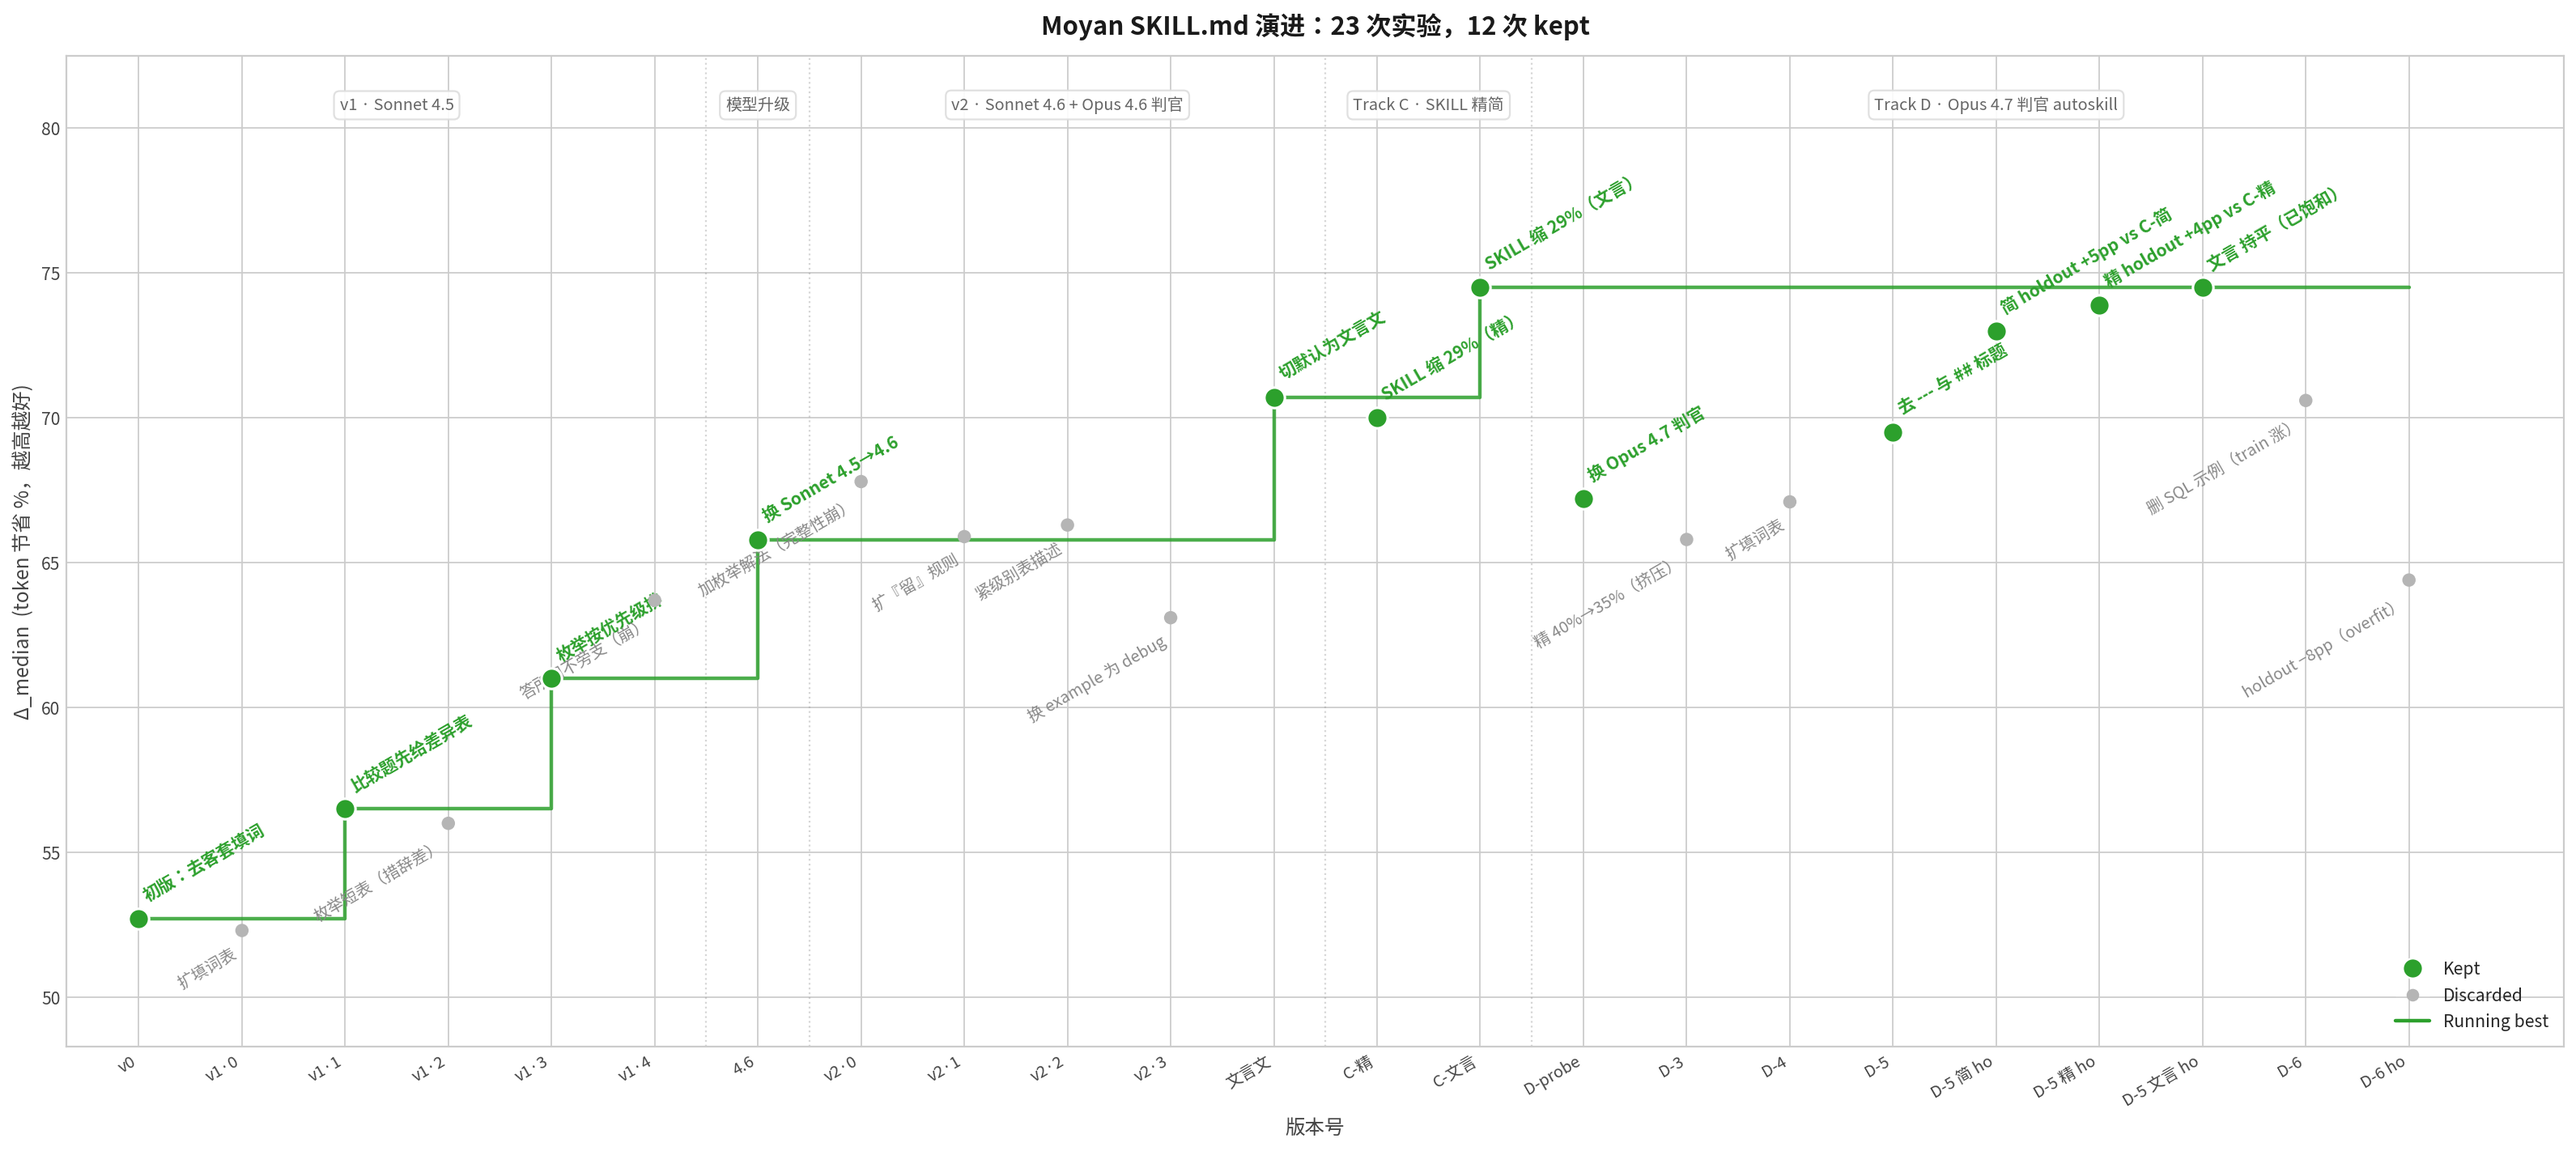
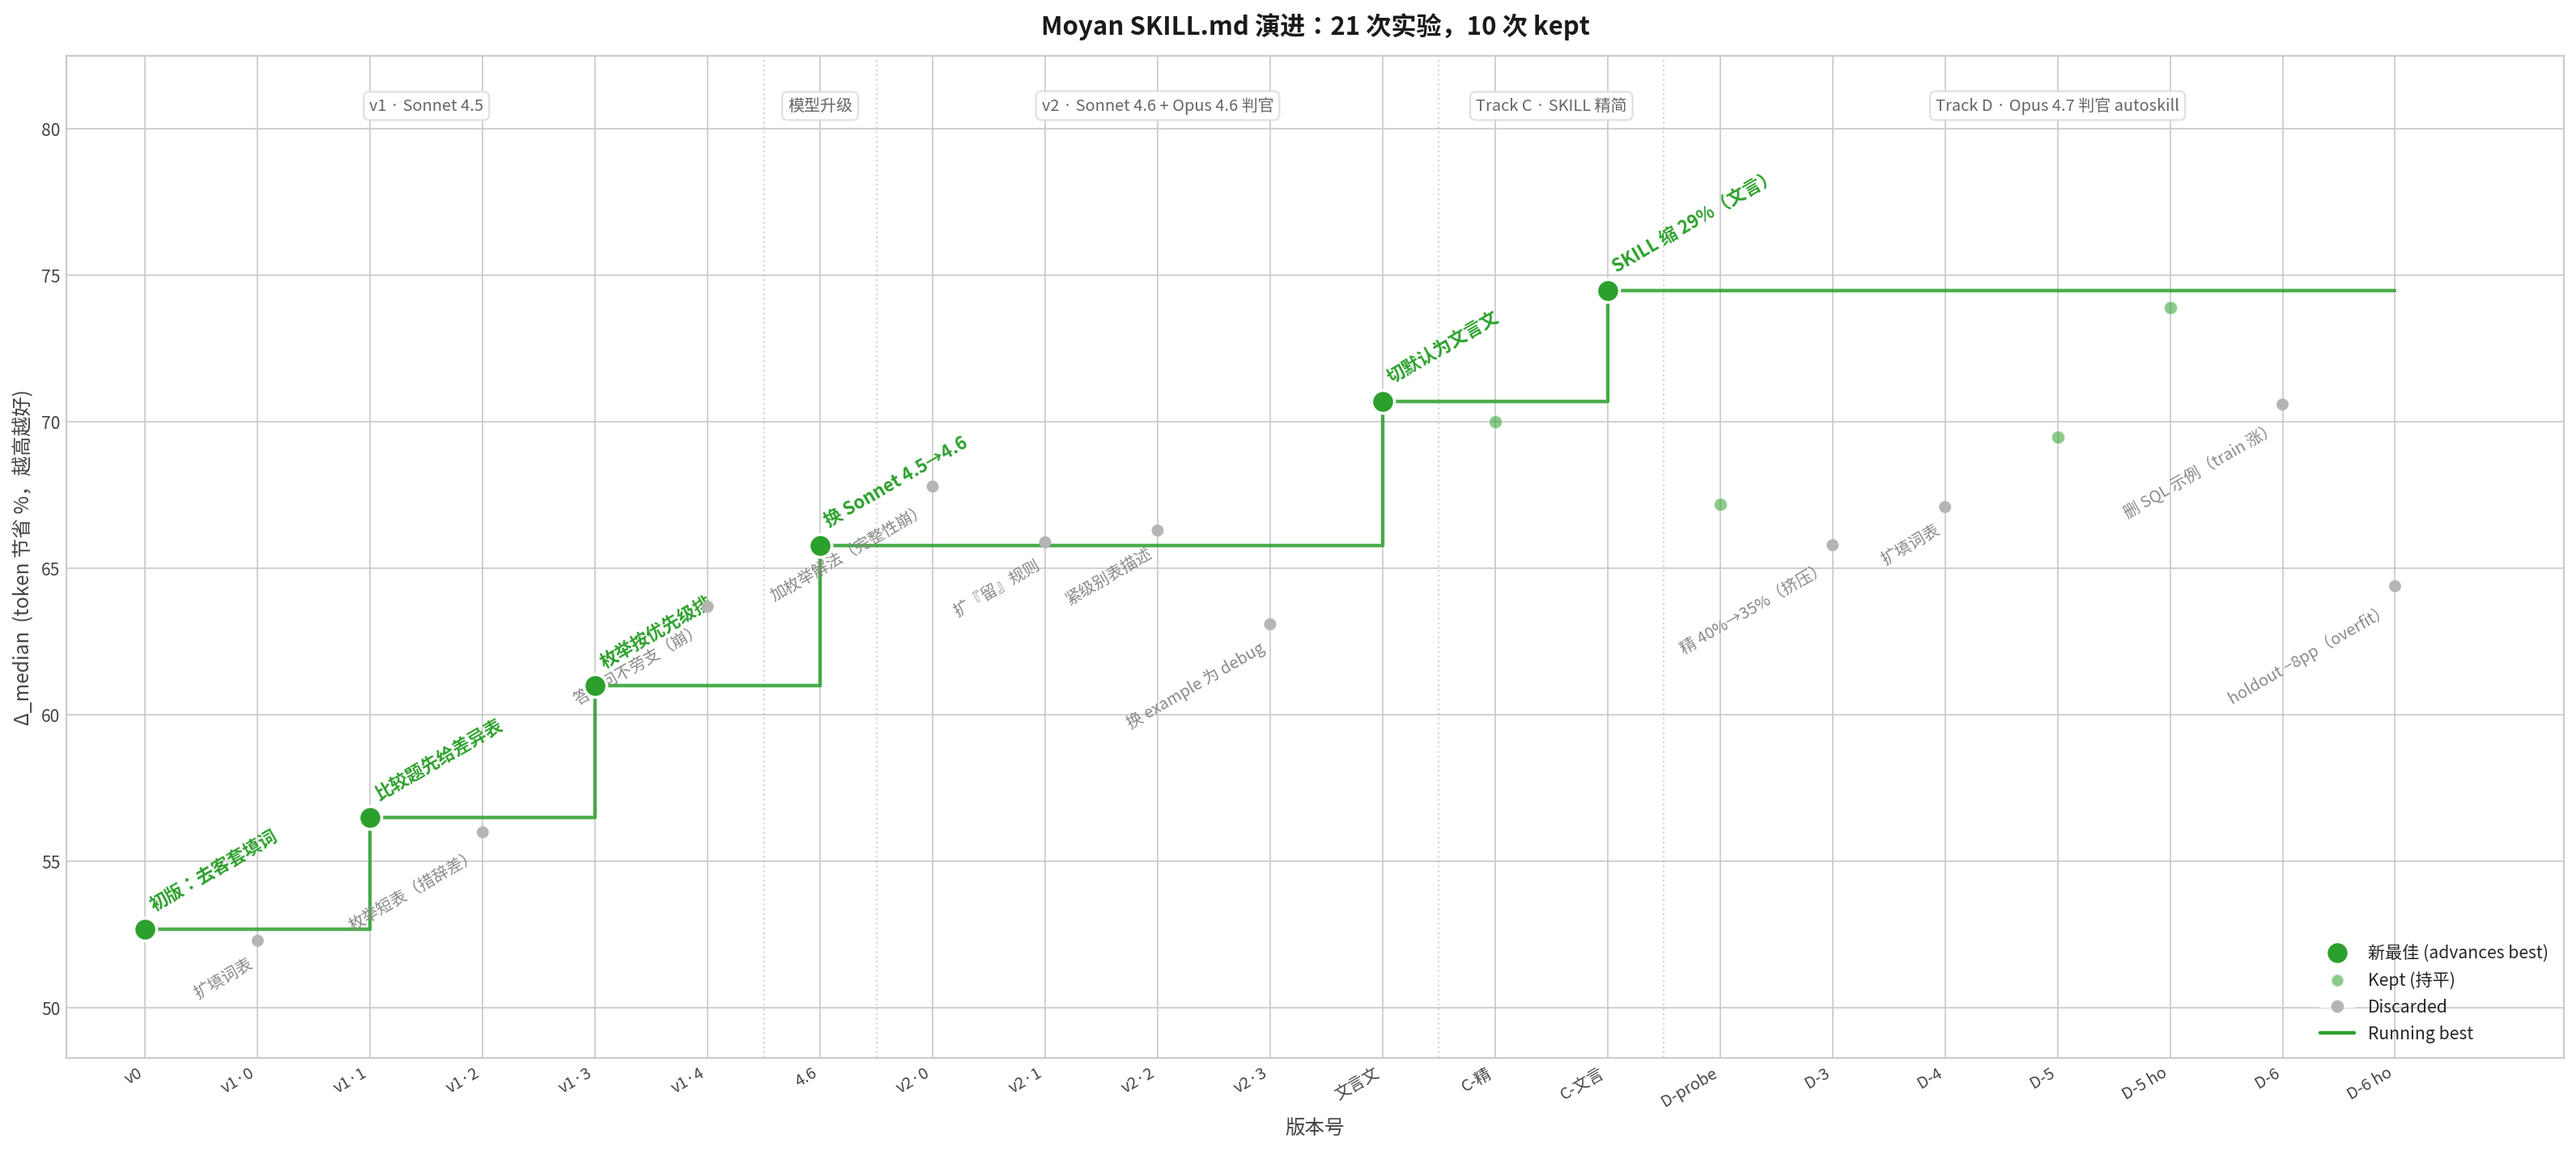
chart: visual hierarchy + collapse D-5 holdout cluster
- 三档 D-5 ho 折叠成一个点（标注 "三档 73 / 73.9 / 74.5"）。
- Kept 点分两层：advancer（推进 running-best）= 大粗体 + 标注；
  kept-but-not-best = 小淡点无标注，不抢视觉。
- 右半从一堆等大绿点收成 1 个里程碑（C-文言）+ 几个支撑小点。

diff --git a/benchmark/plot.py b/benchmark/plot.py
@@ -95,13 +95,11 @@ TIMELINE = [
     dict(tag="D-3",       d=65.8, kept=False, note="精 40%→35%（挤压）",       era="D"),
     dict(tag="D-4",       d=67.1, kept=False, note="扩填词表",                era="D"),
     dict(tag="D-5",       d=69.5, kept=True,  note="去 --- 与 ## 标题",       era="D"),
-    # Per-level holdout for D-5 (run skill23-holdout-allgroups, RESULTS_v2.md
-    # line 318): shows level convergence — 简/精 close ~4pp gap to 文言, but
-    # 文言 itself plateaus at 74.5. April-2026 Opus-4.7 calibration confirmed
+    # D-5 holdout collapsed — three levels (简 73.0 / 精 73.9 / 文言 74.5)
+    # from skill23-holdout-allgroups. Story: Track D pulled 简/精 toward
+    # 文言, 文言 itself saturated. April-2026 Opus-4.7 calibration confirmed
     # judge-shift on 文言 ≈ 0 (v2.2-文言 = 74.4 under both Opus 4.6 and 4.7).
-    dict(tag="D-5 简 ho",  d=73.0, kept=True,  note="简 holdout +5pp vs C-简",  era="D"),
-    dict(tag="D-5 精 ho",  d=73.9, kept=True,  note="精 holdout +4pp vs C-精",  era="D"),
-    dict(tag="D-5 文言 ho", d=74.5, kept=True,  note="文言 持平（已饱和）",      era="D"),
+    dict(tag="D-5 ho",    d=73.9, kept=True,  note="三档 73 / 73.9 / 74.5（简/精/文言）", era="D"),
     dict(tag="D-6",       d=70.6, kept=False, note="删 SQL 示例（train 涨）",  era="D"),
     dict(tag="D-6 ho",    d=64.4, kept=False, note="holdout −8pp（overfit）",  era="D"),
 ]
@@ -165,29 +163,42 @@ def render(out_path: Path):
             color=GREEN, linewidth=2.0, alpha=0.85,
             zorder=2, label="Running best")
 
-    # Points
+    # Tier each kept point: "advancer" if it set a new running-best, else "kept".
+    # Advancers get the big bold treatment; kept-not-advancer is a small dot
+    # without a label so it stops fighting for attention.
+    best_so_far = -1e9
     for e in events:
-        if e["kept"]:
-            ax.scatter(e["x"], e["d"], s=130, color=GREEN,
-                       edgecolor="white", linewidth=1.4, zorder=5)
+        if e["kept"] and e["d"] > best_so_far:
+            e["tier"] = "advancer"
+            best_so_far = e["d"]
+        elif e["kept"]:
+            e["tier"] = "kept"
         else:
-            ax.scatter(e["x"], e["d"], s=55, color=GRAY,
-                       edgecolor="none", zorder=4)
+            e["tier"] = "discard"
 
-    # Chinese notes — kept above (green), discarded below (gray), both angled
+    # Points + labels by tier
     for e in events:
-        if e["kept"]:
+        if e["tier"] == "advancer":
+            ax.scatter(e["x"], e["d"], s=160, color=GREEN,
+                       edgecolor="white", linewidth=1.6, zorder=6)
             ax.annotate(e["note"],
                         xy=(e["x"], e["d"]),
                         xytext=(6, 8),
                         textcoords="offset points",
-                        fontsize=9.5,
+                        fontsize=10,
                         color=GREEN,
                         ha="left", va="bottom",
                         rotation=30,
                         rotation_mode="anchor",
                         weight="semibold")
-        else:
+        elif e["tier"] == "kept":
+            ax.scatter(e["x"], e["d"], s=55, color=GREEN,
+                       edgecolor="white", linewidth=0.8,
+                       alpha=0.55, zorder=5)
+            # No label — exists for completeness, doesn't compete for attention.
+        else:  # discard
+            ax.scatter(e["x"], e["d"], s=45, color=GRAY,
+                       edgecolor="none", zorder=4)
             ax.annotate(e["note"],
                         xy=(e["x"], e["d"]),
                         xytext=(-6, -8),
@@ -232,7 +243,11 @@ def render(out_path: Path):
 
     handles = [
         plt.Line2D([], [], marker="o", color="w", markerfacecolor=GREEN,
-                   markeredgecolor="white", markersize=11, label="Kept"),
+                   markeredgecolor="white", markersize=12,
+                   label="新最佳 (advances best)"),
+        plt.Line2D([], [], marker="o", color="w", markerfacecolor=GREEN,
+                   markeredgecolor="white", markersize=7,
+                   alpha=0.55, label="Kept (持平)"),
         plt.Line2D([], [], marker="o", color="w", markerfacecolor=GRAY,
                    markeredgecolor="none", markersize=7, label="Discarded"),
         plt.Line2D([], [], color=GREEN, linewidth=2.0, label="Running best"),
